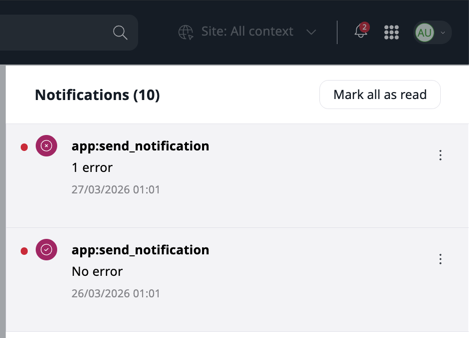
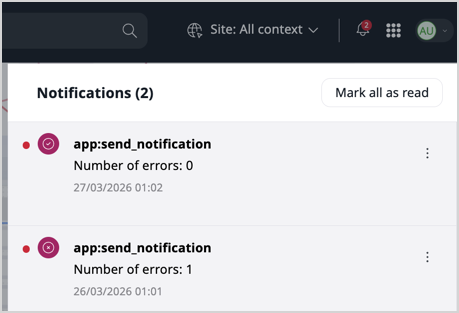
Simplify CommandExecuted notif content
`document.getElementsByClassName('ibexa-notifications-modal__count')[0].innerText='(2)'; document.getElementsByClassName('ibexa-header-user-menu__notice-dot')[0].dataset.count=2;`

diff --git a/code_samples/user_management/notifications/src/Notifications/CommandExecuted.php b/code_samples/user_management/notifications/src/Notifications/CommandExecuted.php
@@ -42,16 +42,11 @@ class CommandExecuted extends Notification implements SystemNotificationInterfac
 
     public function asSystemNotification(UserRecipientInterface $recipient, ?string $transport = null): ?SystemMessage
     {
-        $errorCount = 'No error';
-        if (count($this->exceptions) > 0) {
-            $plural = count($this->exceptions) > 1 ? 's' : '';
-            $errorCount = count($this->exceptions) . ' error' . $plural;
-        }
         $message = new SystemMessage($recipient->getUser());
         $message->setContext([
             'icon' => Command::SUCCESS === $this->exitCode ? 'check-circle' : 'discard-circle',
             'subject' => $this->command->getName(),
-            'content' => $errorCount,
+            'content' => 'Number of errors: ' . count($this->exceptions),
         ]);
 
         return $message;
